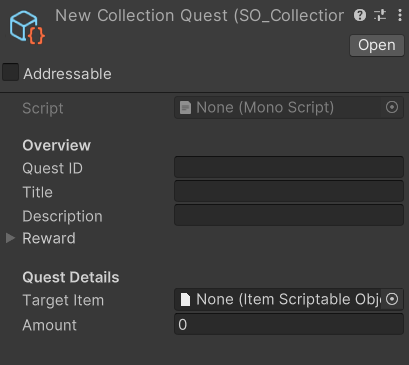
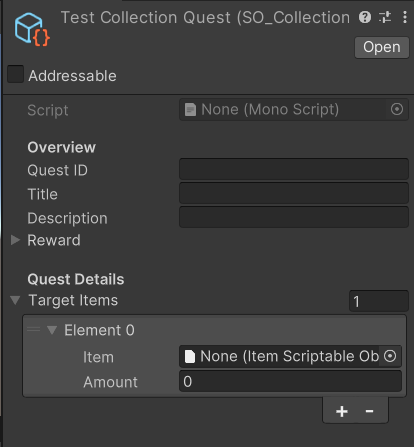
update README

diff --git a/Assets/Script/LinhH_Scripts/SO_Quest.cs b/Assets/Script/LinhH_Scripts/SO_Quest.cs
@@ -3,6 +3,8 @@
 // Date: 03/11/2025
 // 
 
+using System;
+using System.Collections.Generic;
 using UnityEngine;
 
 public class SO_Quest : ScriptableObject
@@ -22,7 +24,14 @@ public class SO_Quest : ScriptableObject
 public class SO_CollectionQuest : SO_Quest
 {
     [Header("Quest Details")]
-    public ItemScriptableObject targetItem;
+    public List<QuestItemRequirement> targetItems;
+}
+
+
+[Serializable]
+public class QuestItemRequirement
+{
+    public ItemScriptableObject item;
     public int amount;
 }
 

diff --git a/README.md b/README.md
@@ -17,7 +17,7 @@
 - [Cá](#fish)  
 - [Động vật](#animals)  
 - [Vật phẩm](#items)  
-    - [Tổng quan](#overview)
+    - [Tổng quan](#item-overview)
     - [Công cụ](#tools)
     - [Nguyên liệu](#materials)
     - [Chế tạo](#crafting)
@@ -26,7 +26,9 @@
     - [Sản phẩm động vật](#animal-products)  
     - [Thức ăn](#food)
     - [Trang trí](#decoration)
-    - [Vật phẩm khác](#other)  
+    - [Vật phẩm khác](#other) 
+
+- [Nhiệm vụ](#quests)
 
 - [Công trình](#constructs)  
 - [Dữ liệu](#data)
@@ -217,7 +219,7 @@
 > - **NPC Name**: Tên của NPC
 > - **Portrait**: Ảnh avatar của NPC
 > - **Can Dating**: NPC có thể hẹn hò được không
-> - **Like Item List**: Danh sách các [vật phẩm](#items) yêu thích của nhân vât.
+> - **Like Item List**: Danh sách các [vật phẩm](#item) yêu thích của nhân vât.
 > - **Hate Item List**: Danh sách các [vật phẩm](#items) mà nhân vật ghét.
 > 
 > Vị trí lưu trữ: NPC Data được lưu trong thư mục *Assets/Resources/NPC/NPC_Data*.
@@ -259,7 +261,7 @@
 ---
 
 # Items
-> ## Overview
+> ## Item Overview
 > ### Chuẩn bị
 > 
 > ---
@@ -289,7 +291,7 @@
 > 
 > ### Thiết lập Tools Item
 > Các thành phần chính của Tools Item:
-> - Các thành phần từ [Item cơ bản](#items).
+> - Các thành phần từ [Item cơ bản](#item-overview).
 > 
 > Vị trí lưu trữ:
 > - Scriptable Object Tools Item được lưu trong *Assets/Resources/Items/Tools*.
@@ -306,7 +308,7 @@
 > 
 > ### Thiết lập Material Item
 > Các thành phần chính của Materials Item:
-> - Các thành phần từ [Item cơ bản](#items).
+> - Các thành phần từ [Item cơ bản](#item-overview).
 > 
 > Vị trí lưu trữ:
 > - Scriptable Object Materials Item được lưu trong *Assets/Resources/Items/Materials*.
@@ -323,7 +325,7 @@
 > 
 > ### Thiết lập Crafting Item
 > Các thành phần chính của Crafting Item:
-> - Các thành phần từ [Item cơ bản](#items).
+> - Các thành phần từ [Item cơ bản](#item-overview).
 > 
 > Vị trí lưu trữ:
 > - Scriptable Object Crafting Item được lưu trong *Assets/Resources/Items/Crafting*.
@@ -340,7 +342,7 @@
 > 
 > ### Thiết lập Crops Item
 > Các thành phần chính của Crops Item:
-> - Các thành phần từ [Item cơ bản](#items).
+> - Các thành phần từ [Item cơ bản](#item-overview).
 > 
 > Vị trí lưu trữ:
 > - Scriptable Object Crops Item được lưu trong *Assets/Resources/Items/Crops*.
@@ -359,7 +361,7 @@
 > ![Các thành phần trong Fish Item](./README_Images/FishItem_Setup.png)  
 > 
 > Các thành phần chính của Fish Item:
-> - Các thành phần từ [Item cơ bản](#items).
+> - Các thành phần từ [Item cơ bản](#item-overview).
 > - **Thông tin cơ bản**:
 >   - **Fish Name**: Tên loại cá.
 > - **Độ khó QTE**:
@@ -384,7 +386,7 @@
 > 
 > ### Thiết lập Animal products Item
 > Các thành phần chính của Animal products Item:
-> - Các thành phần từ [Item cơ bản](#items).
+> - Các thành phần từ [Item cơ bản](#item-overview).
 > 
 > Vị trí lưu trữ:
 > - Scriptable Object Animal products Item được lưu trong *Assets/Resources/Items/Animal_Products*.
@@ -401,7 +403,7 @@
 > 
 > ### Thiết lập Food Item
 > Các thành phần chính của Food Item:
-> - Các thành phần từ [Item cơ bản](#items).
+> - Các thành phần từ [Item cơ bản](#item-overview).
 > 
 > Vị trí lưu trữ:
 > - Scriptable Object Food Item được lưu trong *Assets/Resources/Items/Food*.
@@ -418,7 +420,7 @@
 > 
 > ### Thiết lập Decoration Item
 > Các thành phần chính của Decoration Item:
-> - Các thành phần từ [Item cơ bản](#items).
+> - Các thành phần từ [Item cơ bản](#item-overview).
 > 
 > Vị trí lưu trữ:
 > - Scriptable Object Decoration Item được lưu trong *Assets/Resources/Items/Decoration*.
@@ -428,6 +430,50 @@
  
 > ## Other
  
+---
+
+# Quests
+> 
+> ## Quest Overview
+> 
+> ![Cấu trúc quest](./README_Images/quest_overview.png) 
+> 
+> Các thành phần cơ bản của một nhiệm vụ:
+> - **Quest Id**: Id của nhiệm vụ.
+> - **Tittle**: Tên của nhiệm vụ.
+> - **Description**: Mô tả của nhiệm vụ.
+> - **Quest Reward**: [Phần thưởng](#quest-reward) cho nhiệm vụ.
+>  
+> Nhiệm vụ được chia ra làm các loại:
+> - Nhiệm vụ thu thập (Collection Quest).
+> - Nhiệm vụ trò chuyện (Talking Quest).
+> 
+> ## Nhiệm vụ thu thập
+> 
+> Vị trí lưu trữ Collection Quest Scriptable Object: *Resources/Quests/Collection_Quests*.  
+> Các bước thêm một nhiệm vụ thu thập: *Right click -> Create -> Scriptable Object -> Quest -> Collection Quest*.
+> 
+> ![Collection quest](./README_Images/collection_quest.png)
+> 
+> Các thành phần của nhiệm vụ thu thập:
+> - Các thành phần có trong [nhiệm vụ cơ bản](#quest-overview).
+> - **Target Items**: Danh sách các item cần thu thập của nhiệm vụ.
+>   - *Item*: [Vật phẩm](#items) cần thu thập.
+>   - *Amount*: Số lượng vật phẩm cần thu thập.
+> 
+> ---
+> 
+> ## Nhiệm vụ trò chuyện
+> 
+> Vị trí lưu trữ Talking Quest Scriptable Object: *Resources/Quests/Talking_Quests*.  
+> Các bước thêm một nhiệm vụ trò chuyện: *Right click -> Create -> Scriptable Object -> Quest -> Talking Quest*.
+> 
+> ---
+> 
+> ## Quest Reward
+> 
+> 
+
 ---
 
 # Constructs
